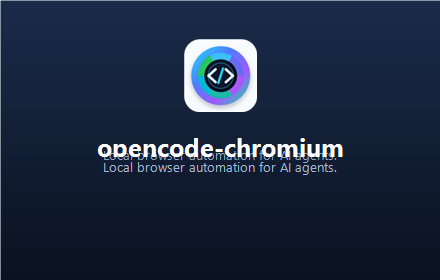
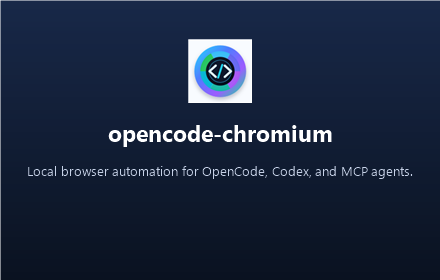
fix: rebuild store listing art with non-overlapping layouts and marquee tile

Changed region(s): [[0.0591, 0.4286, 0.9455, 0.6286], [0.4136, 0.1429, 0.5909, 0.4]]

diff --git a/store/listing-copy.md b/store/listing-copy.md
@@ -40,10 +40,16 @@ This extension is a general-purpose automation bridge, so it asks for the browse
 
 All data stays on your device. See the privacy policy (link above) for details.
 
-## Single listing screenshot
+## Listing screenshots and promo tiles
 
-- provider `store/opencode-chromium-1280x800.png`
-- (optional promo tile `store/opencode-chromium-440x280.png`)
+All listing art is generated from popup renders with `scripts/compose-store-art.ps1`
+(see the script header for usage). Current set:
+
+- `store/opencode-chromium-1280x800.png` — hero: popup connection view
+- `store/opencode-chromium-1280x800-semantic.png` — semantic page search model cards
+- `store/opencode-chromium-1280x800-memory.png` — Action Memory dashboard
+- `store/opencode-chromium-440x280.png` — small promo tile
+- `store/opencode-chromium-1400x560.png` — marquee promo tile
 
 ## Review notes
 
